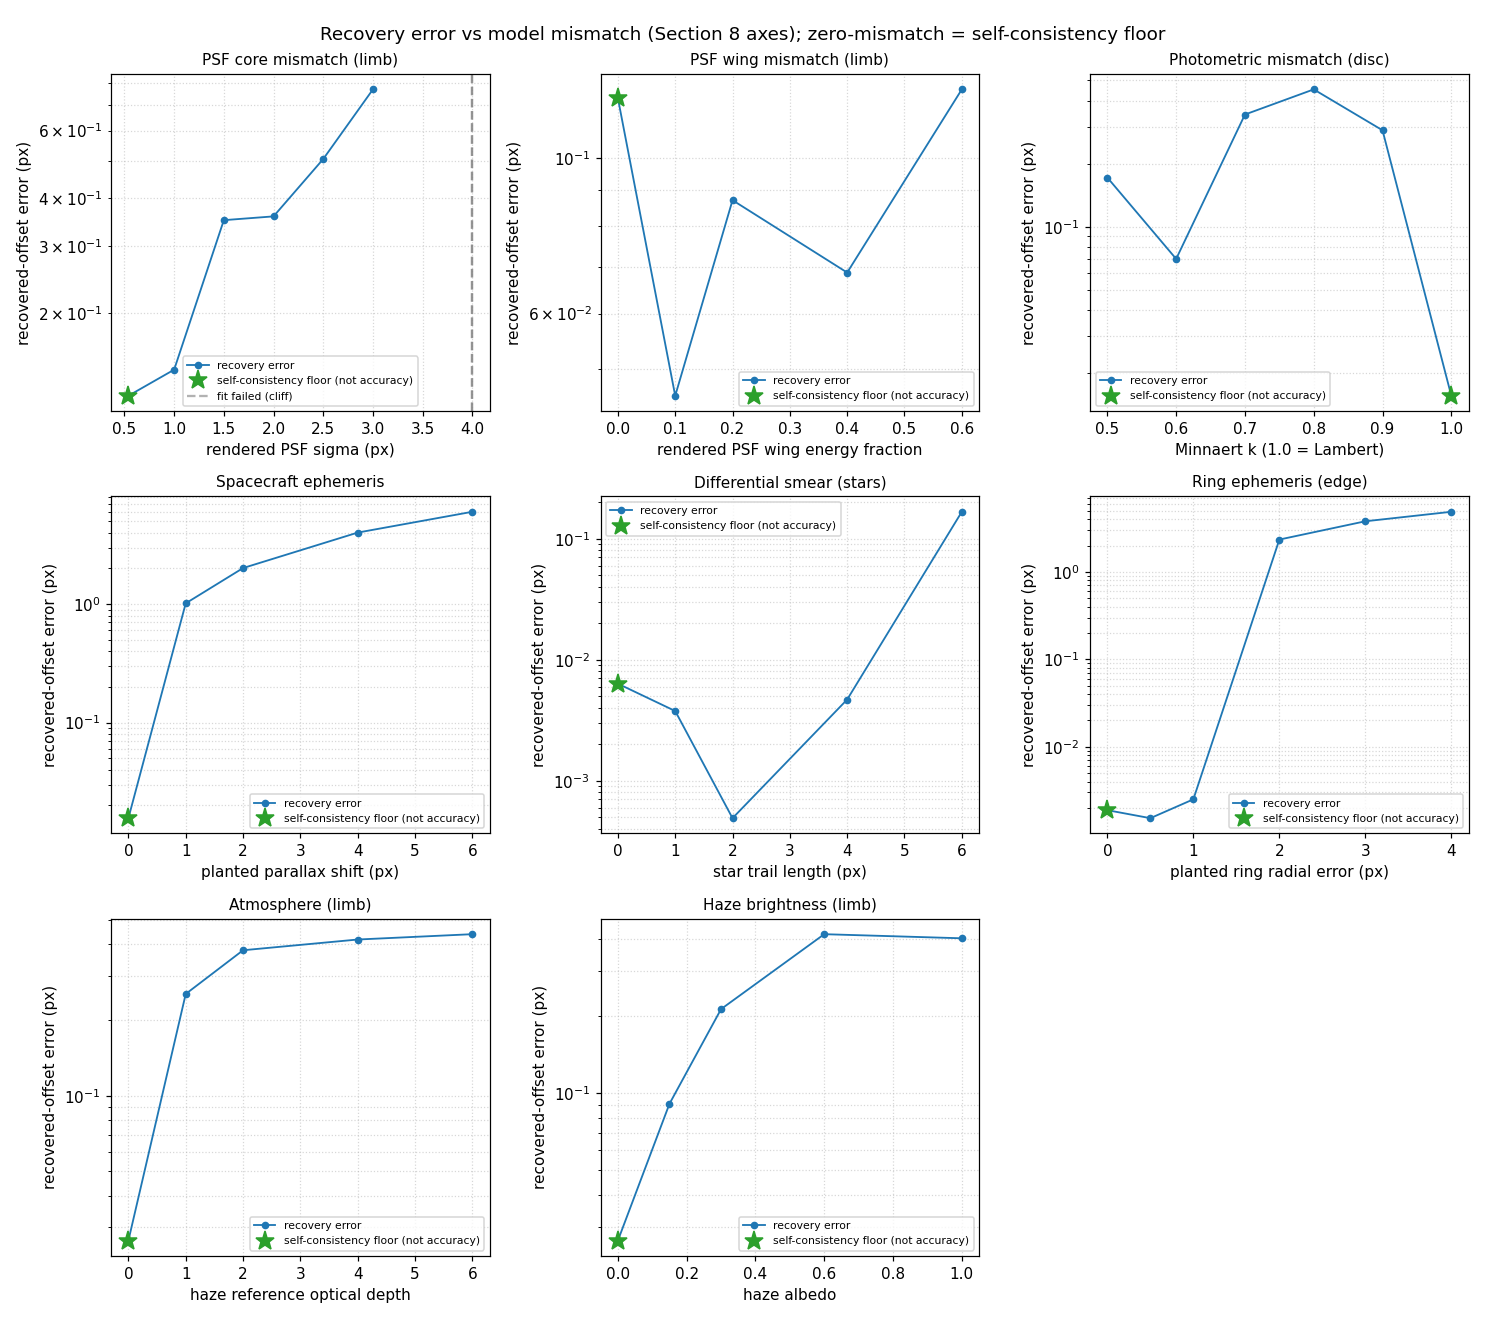
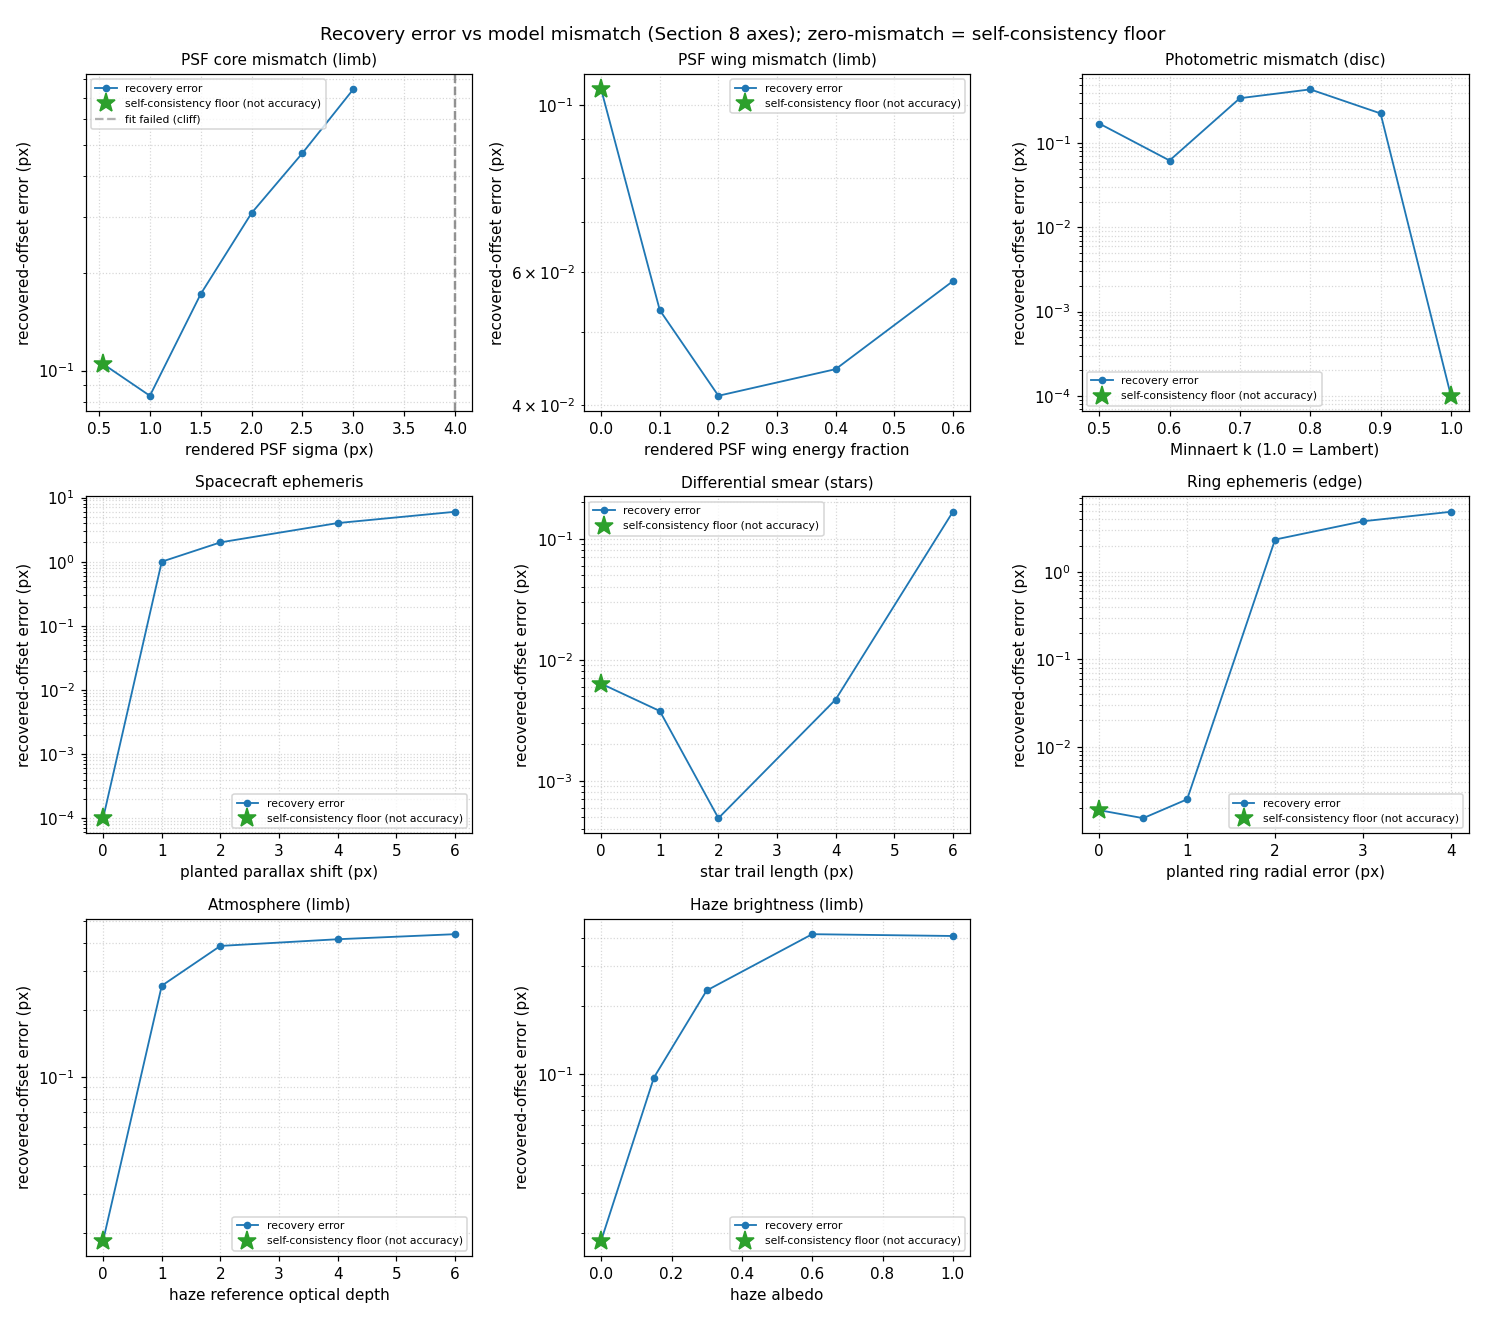
docs: redraw the mismatch figure from fresh sweeps
The PSF core and wing, photometric, spacecraft-ephemeris, and both haze
sweeps move with the smooth-body shading.  Their floors are now exact
recoveries (0 px, or a float residual near 1e-16 px), which a log axis
cannot draw: the photometric floor fell off its panel and the parallax
panel stretched over 16 decades.  The mismatch panels now draw an error
below 1e-4 px at 1e-4 px, and the caption says so.

Claude-Session: https://claude.ai/code/session_01RG3ZiBNx376YVT9xgP1ET9

diff --git a/tests/integration/sim_sweep_plots.py b/tests/integration/sim_sweep_plots.py
@@ -201,6 +201,11 @@ def _mesh_pose_figure() -> None:
     plt.close(fig)
 
 
+# The smallest error the mismatch panels draw.  A log axis cannot show an exact
+# recovery (0 px, or a float residual near 1e-16 px), so a smaller error is drawn
+# here, below every measured nonzero floor.
+_MISMATCH_ERROR_DISPLAY_FLOOR_PX = 1e-4
+
 # The Section 8 model-mismatch axes: (sweep name, x-axis label, panel title).
 # Each walks one render-vs-navigate mismatch from a self-consistency floor (the
 # first sweep value) into the mismatched regime; the recovery-error-vs-mismatch
@@ -224,8 +229,9 @@ def _mismatch_axes_figure() -> None:
     mismatch parameter.  The zero-mismatch point (equality with the navigator's
     configuration) is drawn as the self-consistency floor -- a bound on
     reproducibility, not accuracy -- and a failed step (the navigability cliff)
-    is annotated on the axis rather than plotted.  The grid is sized to the
-    axis count; any unused trailing panel is hidden.
+    is annotated on the axis rather than plotted.  An error below
+    ``_MISMATCH_ERROR_DISPLAY_FLOOR_PX`` is drawn at that floor.  The grid is sized
+    to the axis count; any unused trailing panel is hidden.
     """
     if not _all_ran([name for name, _xlabel, _title in _MISMATCH_AXES]):
         return
@@ -238,7 +244,9 @@ def _mismatch_axes_figure() -> None:
     for ax, (name, xlabel, title) in zip(flat_axes, _MISMATCH_AXES, strict=False):
         rows = _load(name)
         solved = [
-            (r['value'], r['offset_error_px']) for r in rows if r.get('offset_error_px') is not None
+            (r['value'], max(r['offset_error_px'], _MISMATCH_ERROR_DISPLAY_FLOOR_PX))
+            for r in rows
+            if r.get('offset_error_px') is not None
         ]
         failed = [r['value'] for r in rows if r.get('offset_error_px') is None]
         if solved:

diff --git a/docs/simulator_report/simulator_report.rst b/docs/simulator_report/simulator_report.rst
@@ -1645,7 +1645,8 @@ product.
    first point, drawn as a green star, where the render matches the navigator's
    model -- into the mismatched regime, and the recovery-error-vs-mismatch curve
    is the product.  A dashed line marks the navigability cliff, the mismatch at
-   which the fit fails.
+   which the fit fails.  The error axis is logarithmic, so an exact recovery is
+   drawn at 1e-4 px.
 
 Each axis pairs a render-side knob (what the frame carries) with the
 navigator-side assumption (what the model predicts); the machinery column names
